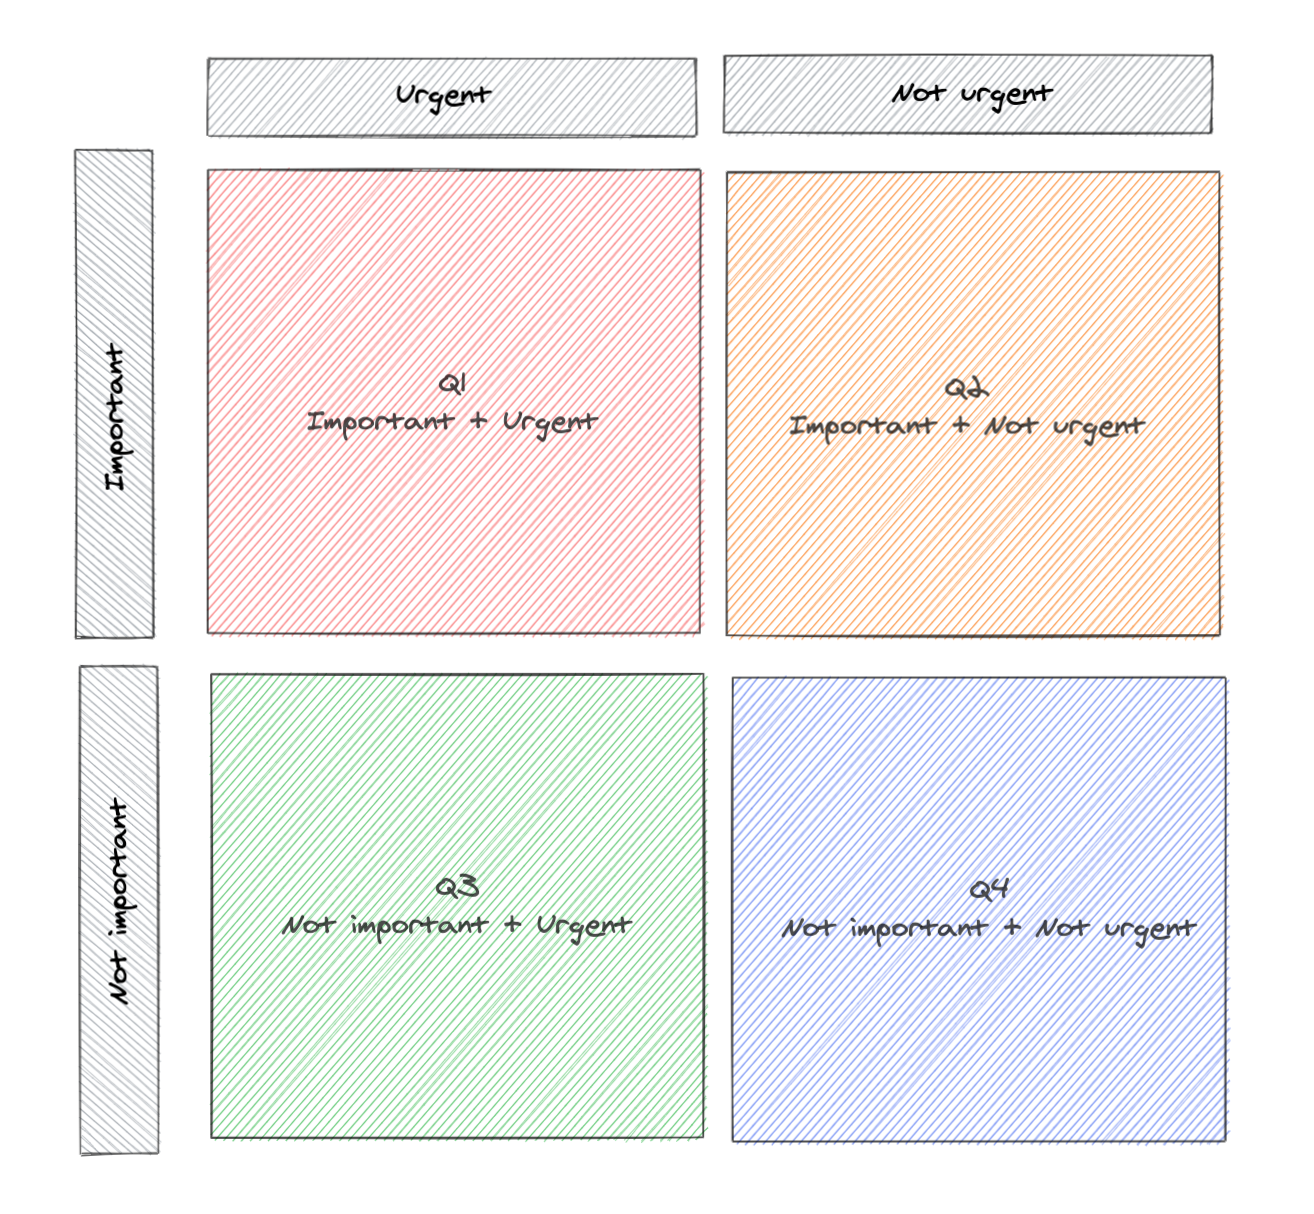
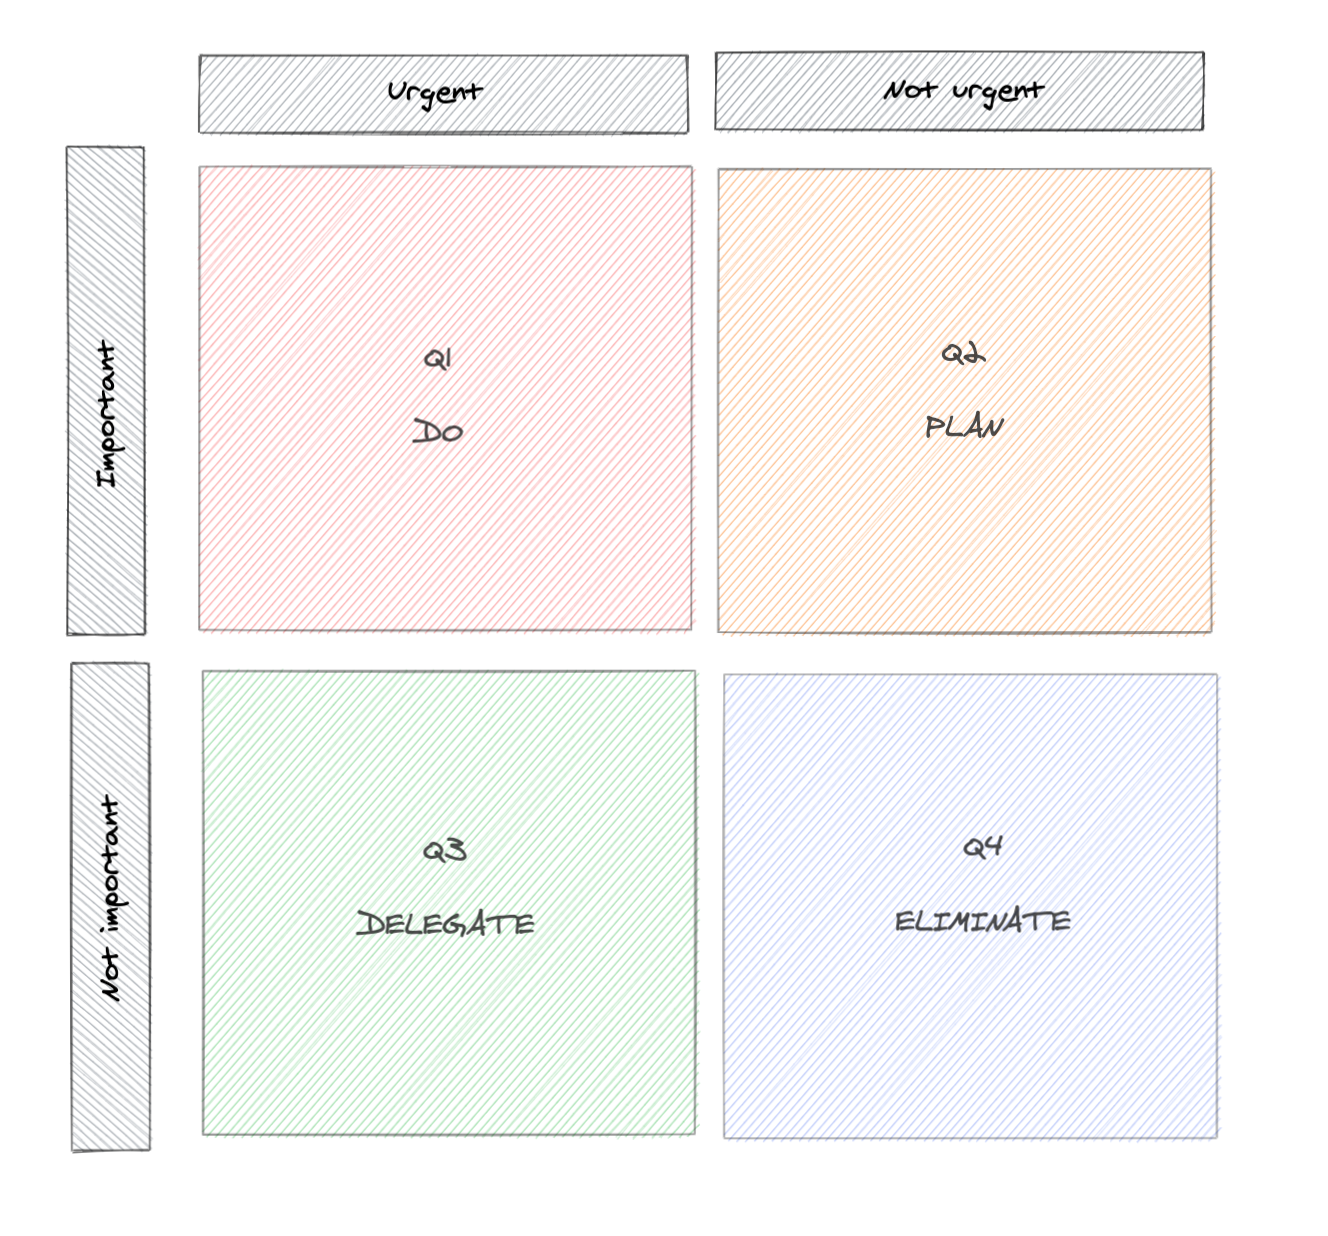
feat(post): productivity article updates

diff --git a/_layouts/default.html b/_layouts/default.html
@@ -13,7 +13,11 @@
     <!-- <link rel="icon" href="images/profile.ico"> -->
     <link rel="shortcut icon" href="/images/profile1.ico">
     <link rel="alternate" type="application/rss+xml" title="{{ site.name }} - {{ site.description }}" href="{{ site.baseurl }}/feed.xml" />
-
+    <link href="https://fonts.googleapis.com/css?family=Roboto+Mono|Roboto+Slab:300|Roboto:500" rel="stylesheet">
+    
+    <link href="https://fonts.googleapis.com/css2?family=Roboto:ital,wght@0,100;0,300;0,400;0,500;0,700;0,900;1,100;1,300;1,400;1,500;1,700;1,900&display=swap" rel="stylesheet">
+    <link href="https://fonts.googleapis.com/css2?family=Roboto+Slab:wght@100;200;300;600;700;800;900&display=swap" rel="stylesheet">
+    <link href="https://fonts.googleapis.com/css2?family=Roboto+Mono:ital,wght@0,200;0,300;0,400;0,500;0,600;0,700;1,100;1,200;1,300;1,400;1,500;1,600;1,700&display=swap" rel="stylesheet">
     <!-- Created with Jekyll Now - http://github.com/barryclark/jekyll-now -->
   </head>
 
@@ -32,7 +36,7 @@
             <a href="{{ site.baseurl }}/">Blog</a>
             <a href="{{ site.baseurl }}/talks">Talks</a>
             <a href="{{ site.baseurl }}/community">Community</a>
-            <a href="{{ site.baseurl }}/open-source">Open Source</a>
+            <a href="{{ site.baseurl }}/open-source">OS</a>
             <a href="{{ site.baseurl }}/about">About</a>
           </nav>
         </header>

diff --git a/style.scss b/style.scss
@@ -17,9 +17,14 @@ html {
   font-size: 100%;
 }
 
+code {
+  font-family: $Monospace;
+  font-size: 0.8em;
+}
+
 body {
 	background: $white;
-  font: 18px/1.4 $helvetica;
+  font: 18px/1.4 $Serif;
   color: $darkGray;
 }
 
@@ -31,7 +36,7 @@ body {
 }
 
 h1, h2, h3, h4, h5, h6 {
-  font-family: $helveticaNeue;
+  font-family: $SansSerif;
   color: $darkerGray;
   font-weight: bold;
 
@@ -194,7 +199,7 @@ img {
   margin: 0;
   color: $darkGray;
   cursor: pointer;
-  font-family: $helveticaNeue;
+  font-family: $SansSerif;
   font-weight: 300;
   font-size: 28px;
   letter-spacing: 1px;
@@ -213,7 +218,7 @@ img {
 nav {
   float: right;
   margin-top: 23px; // @TODO: Vertically middle align
-  font-family: $helveticaNeue;
+  font-family: $SansSerif;
   font-size: 18px;
 
   @include mobile {

diff --git a/_sass/_variables.scss b/_sass/_variables.scss
@@ -19,6 +19,11 @@ $helvetica: Helvetica, Arial, sans-serif;
 $helveticaNeue: "Helvetica Neue", Helvetica, Arial, sans-serif;
 $georgia: Georgia, serif;
 
+// google web fonts
+$Serif: 'Roboto Slab', serif;
+$SansSerif: 'Roboto', sans-serif;
+$Monospace: 'Roboto Mono', monospace;
+
 // Mobile breakpoints
 @mixin mobile {
   @media screen and (max-width: 640px) {

diff --git a/_posts/2020-09-22-How to be more productive.md b/_posts/2020-09-22-How to be more productive.md
@@ -1,55 +1,46 @@
 ---
 layout: post
-title: How can I become more productive at work ?
+title: How can you become more productive at work ?
 ---
+  
+Productivity is one of the **most in-demand skill of today**.   
+You only have 24 hours per day so making **the most of your time** is important.   
+But How can you become **more productive** ?
 
-Have you ever wondered how to become more productive at work ?    
-Productivity is one of the most in-demand skill of today.    
-But How can you become more productive ?
-
-Through this article I will try to share my advices and tools to be more productive.
-The purpose of this article is to become aware of your way of working, to question it and to try to improve it.    
-The end goal is **to work smarter, not harder**.
+<p align="center">
+<img alt="wallpaper" src="/images/posts/wallpaper.jpg" width="500"/>
+</p>
 
 # To begin...
 
-Even if you have a phenomenal amount of work to do, you can remain relaxed, productive and in control.
+Have you ever wondered how to become more productive at work ?  
 
-1. List all the tasks you have to accomplish no matter how small, and put them into a cohesive system that you can trust.
-   This way, they will no longer take up your mind.
-
-2. Make decisions without delay about any new tasks that come your way.
-   In this way, you will have a framework allowing you to orient your future actions.
-
-# The Pomodoro technique (time)
-
-This technique is used by over 2 million people to manage their time.
-
-The idea is pretty simple:
-
-- Choose a task you’d like to do
-- Set a timer for 25 minutes
-- Work on the task until the timer ends
-- Take a short break (~5 minutes)
-- Every 4 timer, you can take a longer break (~25 minutes)
-
-You can also go further by making the Pomodoro technique more effective:
-
-- Try to estimate how much your activities requires (effort + time)
-- Efficiently splits a task into multiple sub-tasks
-
-In conclusion, the Pomodoro technique helps you:
-
-- Handle interruptions (social media…)
-- Estimate more easily the time that a task will take to perform
-- Reduce the complexity of your long-term goals
-- Make your job more motivating by setting short-term goals
+Through this article I will try to share **my advices and tools to be more productive**.
+Even if you have a phenomenal amount of work to do, you can remain **relaxed** and **productive**.
+The purpose of this article is to become aware of your way of working, to question it and to try to **improve it**.    
+The end goal is **to work smarter, not harder**.
 
 # Focus on what really matters
 
-This productivity tool lets you focus your time and attention on activities in accordance with their importance. This is called a *Time Matrix*.
+## Design a plan to identify long-term priorities
 
-The idea is again pretty simple:
+**Plan everything** you need to do during the day / week.   
+I like taking the analogy of the **jar theory**: start by filling your jar with the **rocks**, the big, important tasks, then you can add the **pebbles** which are the tasks with average importance and finally you can add the **sand** which represent the less important tasks.
+
+<p align="center">
+<img alt="life-jar" src="/images/posts/life-jar.png" width="500"/>
+<p style="text-align: center;font-style: italic;">https://mindfulambition.net/big-rocks-first/</p>
+</p>
+
+This way you can **focus on your main goals** for your day / week and then it **create space** for the pebble tasks and finally the sand tasks. This technique also makes it easier to **respect your plans** and **get things done**.
+
+Each week, make sure you schedule 30 minutes and 10 minutes each day to design your plan.
+
+## The time matrix
+
+This productivity tool lets you **focus your time and attention** on activities in accordance with their **importance**. This is called a *Time Matrix*.
+
+The idea is pretty simple:
 
 - You can represent the four quadrants like so:
 
@@ -62,33 +53,92 @@ The idea is again pretty simple:
 - The <span style="font-size: bold;color:green">bottom-left one (Q3)</span> quadrant time is for the work that is **urgent but not important.**
 - And <span style="font-size: bold;color:blue">finally the bottom-right (Q4)</span> one is the time you **waste on pointless things.**
 
-Ideally you should spend most of your time in Q2 as this where we can focus and think instead of reacting of the urgency of the tasks. This is also a way to focus on one task at a time.
+Ideally you should spend most of your time in Q1 and Q2 as this where we can focus and think instead of reacting of the urgency of the tasks. This is also a way to **focus on one task at a time.** (We will come back later on this notion)    
 In order to put a task in this quadrant you should use the *Pause-Clarify-Decide method* by pausing for a moment and thinking: *Will this task need immediate action ?* If the answer is no, you can focus on something else.
 
-# Design a plan
+## The 80/20 rule D
 
-Plan everything you need to do during the day/week.   
-I like taking the analogy of the jar theory: start by filling your jar with the **rocks**, the big, important tasks, then you can add the **pebbles** which are the tasks with average importance and finally you can add the **sand** which represent the less important tasks.
+Lets take an example, Microsoft discovered that by fixing the top **20%** of the most-reported issues, **80%** of the related errors would be eliminated.
+It was also discovered that in general **80% of the results** will come from **20% of the efforts**.     
+In other words, **80%** of the software you are writing can be written in **20%** of the total allocated time.
+
+In conclusion, find **the most important 20%** of your work and **focus on it**.
+
+## Break you work into smaller pieces
+
+Did you ever think that you were going to put off your work until tomorrow ?   
+This is called **procrastination**.   
+One reason why you are procrastinating is that your to-do list seems **too big**.
+
+By **breaking large tasks into smaller ones** you set more **short-term goals** that gives you the feeling of **moving forward** and it also gives you more **motivation**.
+
+## Get to work
+
+Have you ever felt **without any motivation** to work?
+
+This feeling is quite normal ! Usually **motivation comes after productivity**.   
+It's the same problem writers have with the clean sheet.   
+Start by **doing something**, anything, cut your work into small pieces and **start** with a small task, just to get into the **"work" mode**.
+
+## Do one thing at a time
+
+People are **bad at multitasking**. ([What shows research](https://www.apa.org/research/action/multitask))   
+The reason is pretty simple, most of the time your are **not** doing multiple things at once, you are just quickly switching your focus between things. It means that each time you switch your focus, you need to **re-focus** on the previous task.
+
+# Organize your time
+
+## The Pomodoro technique
 
 <p align="center">
-<img alt="life-jar" src="/images/posts/life-jar.png" width="500"/>
-<p style="text-align: center;font-style: italic;">https://mindfulambition.net/big-rocks-first/</p>
+<img alt="pomodoro" src="/images/posts/pomodoro.png" width="500"/>
+<p style="text-align: center;font-style: italic;">https://blog.hotmart.com/en/pomodoro-technique/</p>
 </p>
 
-This way you can focus on your main goals for your day / week and then it create space for the pebble tasks and finally the sand tasks. This technique also makes it easier to respect your plans and get things done.
+This technique is used by **over 2 million people** to manage their time.
 
-Each week, make sure you schedule 30 minutes and 10 minutes each day to design your plan.
+The idea is pretty simple:
 
-# Build your technology radar (concern)
+- **Choose a task** you’d like to do
+- Set a timer for **25 minutes**
+- **Work** on the task until the timer ends
+- Take a **short break** (~5 minutes)
+- Every **4 timer**, you can take a **longer break** (~25 minutes)
 
-This technique is a little bit off topic as it is not a direct way to get more productive but something that you should care upstream to spend time learning the thing you should learn.
+You can also go further by making the Pomodoro technique more effective:
+
+- Try to **estimate** how much your activities requires (effort + time)
+- Efficiently **splits** a task into multiple sub-tasks
+
+In **conclusion**, the Pomodoro technique helps you:
+
+- Handle **interruptions** (social media…)
+- **Estimate** more easily the time that a task will take to perform
+- **Reduce the complexity** of your long-term goals
+- Make your job more **motivating** by setting short-term goals
+
+## Take deliberate breaks
+
+The technique seen above will helps you take **deliberate** breaks.   
+By "deliberate" I mean that people often take breaks to justify that they are **distracted**. It means that their breaks were **not scheduled** and it's possible that they are taking too much of them (or too long). 
+
+## Handle your energy
+
+Organizing your time is also a way to organize effectively your **energy**.   
+Have you ever been stuck with a problem at the end of the day ? And usually you can figure it out the **next morning**...
+
+Productive people know how to manage their energy to handle **the most difficult** tasks while they have **enough energy** to handle them.
+Remember that you have **less attention** than time during the day.
+
+# Build your technology radar
+
+This technique is a little bit off topic as it is not a direct way to get more productive but it is something that you should care **upstream** to spend time learning the things that will have a **real impact in your work**.
 
 This radar contains four levels of concern:
 
-- **Adopt**: Strong recommendation for adoption
-- **Trial**: Try this out on projects that can handle the risk
-- **Assess**: Explore to understand how it might affect you
-- **Hold**: Don’t bother
+- **Adopt**: **Strong recommendatio**n for adoption
+- **Trial**: **Try** this out on projects that can handle the risk
+- **Assess**: **Explore** to understand how it might affect you
+- **Hold**: It doesn't matter
 
 <p align="center">
 <img alt="tech-radar" src="/images/posts/tech-radar.png" width="500"/>
@@ -99,33 +149,46 @@ For example, as a frontend developer, you could have strongly **adopted** React,
 Machine Learning doesn’t impact you yet so you can **assess** it.
 Finally you could have decided to **hold off** looking at Cloud Computing.
 
-Each level of concern implies a more or less important investment on your part.
+Each level of concern implies a **more or less** important **investment** on your part.
 For the Assess level you could just read a weekly « overview » of the subject.
-The trial level implies you to read more articles, try on projects… Get your hands dirty !
-For the Adopt level you should be more than familiar with the technology, this is your your main expertise !
+The trial level implies you to read more articles, try on projects… **Get your hands dirty** !
+For the Adopt level you should be more than familiar with the technology, this is your your **main expertise **!
 
-In conclusion, the technology radar allows you to organize your work in a hierarchical manner in order to put those with the most impact first.
+In conclusion, the technology radar allows you to **organize your work** in a **hierarchical** manner in order to put those with the **most impact** first.
 This way you can focus on what really matters.
 
 # Take care of you
 
-This advice may seem logical but you should take care of your body and mind.All the tips I gave you above are useless if you don’t take care of your body.
-For example, your brain consumes 20 percent of your energy bit it only takes up 2 percent of your body.
-If you don’t have enough energy to feed your brain it's a bit like having a car without gasoline…
+This advice may seem logical but you should take care of your **body** and **mind**.   
+All the tips I gave you above are useless if you don’t take care of your body.
+For example, your brain consumes **20 percent of your energy** but it only takes up **2 percent of your body**.
+If you don’t have enough energy to feed your brain it's a bit like having a **car without gasoline**…
 
-So remember to take care of you by doing exercice, getting enough sleep and staying healthy !
+So remember to take care of you by **doing exercice**, getting enough **sleep** and staying **healthy** !
+
+# Conclusion
+
+I understand that these tips don't work for everyone but they **worked for me** so why don't you too ?
+
+To sum up, here is how to be **more productive**:
+
+- **Focus** on what really matters
+- **Organize** your time
+- **Take care** of you
+- **Build** your technology radar
 
 # Uselfull Tools
 
 ## Task automation
 
-You must surely have to repeat some tasks during your day. Why not automate these piece of work ?   
+You must surely have to **repeat** some tasks during your day.   
+Why not **automate** these piece of work ?   
 
 **Karabiner Elements**: <a href="https://karabiner-elements.pqrs.org/">https://karabiner-elements.pqrs.org/</a>  (for macOS)    
 *A powerful and stable keyboard customizer.*
 
 **Alfred**: <a href="https://www.alfredapp.com/">https://www.alfredapp.com/</a> (for macOS)   
- *boosts your efficiency with hotkeys, keywords, text expansion and more.*
+ *Boosts your efficiency with hotkeys, keywords, text expansion and more.*
 
 **TextExpander**: <a href="https://textexpander.com/">https://textexpander.com/</a>    
 *TextExpander lets you instantly insert snippets of text from a repository of emails, boilerplate and other content, as you type – using a quick search or abbreviation.*
@@ -136,11 +199,16 @@ You must surely have to repeat some tasks during your day. Why not automate thes
 *A dashboard for developers: Open source plugins for metrics about your programming*
 
 **everydayCheck**: <a href="https://everyday.app/">https://everyday.app/</a>   
-*Form new habits by doing things every day.*
+*Form new habits by doing things every day.*   
+
 **Habitica**: <a href="https://habitica.com/static/home">https://habitica.com/static/home</a>   
 *Complete your real life daily goals in a role play game*
 
 ## Task Management
+
+List **all the tasks** you have to accomplish, and put them into a **task management system**. 
+They will **free your mind**.
+**Orient** your future actions by putting down your decisions about a task that come your way.
 
 **TaskWarrior**: <a href="https://taskwarrior.org/">https://taskwarrior.org/</a>    
 *Free and Open Source Software that manages your TODO list from the command line*
